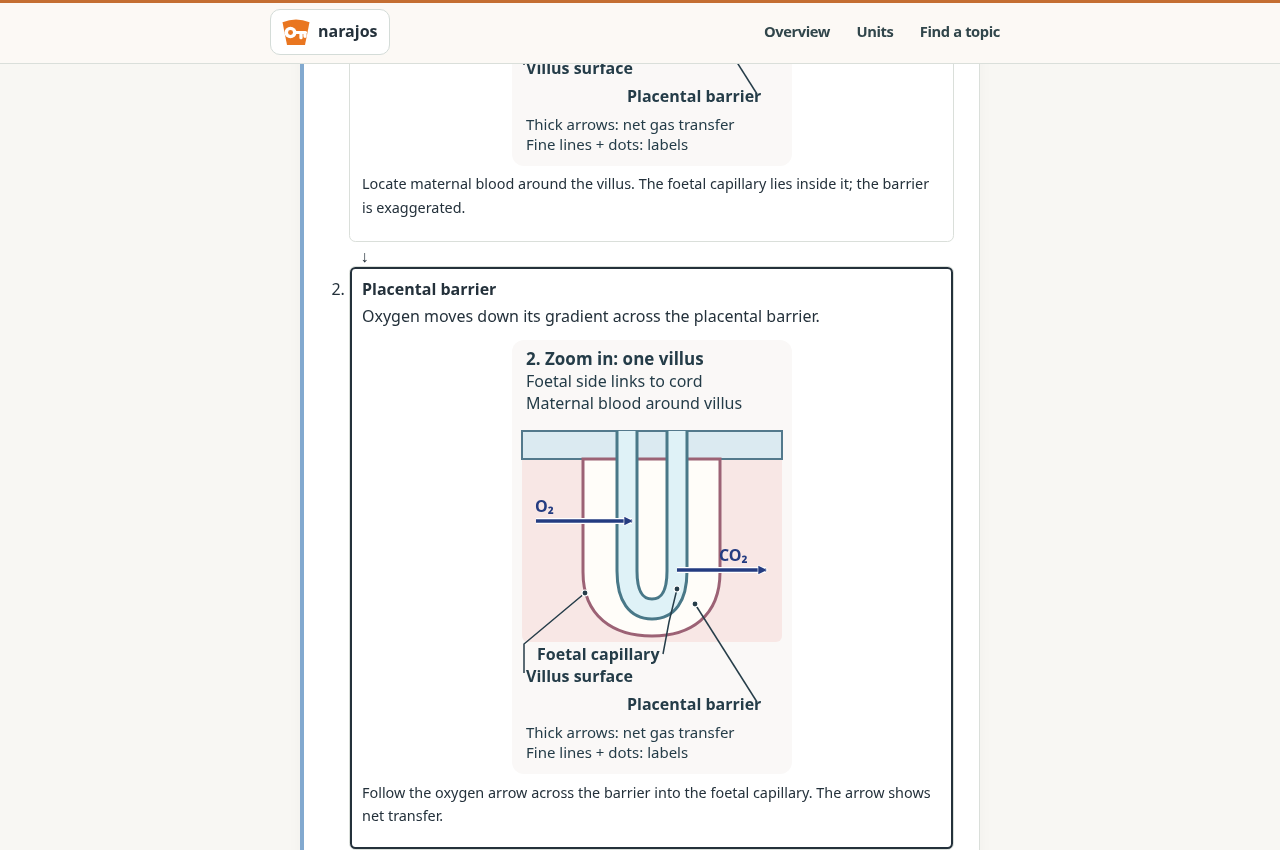
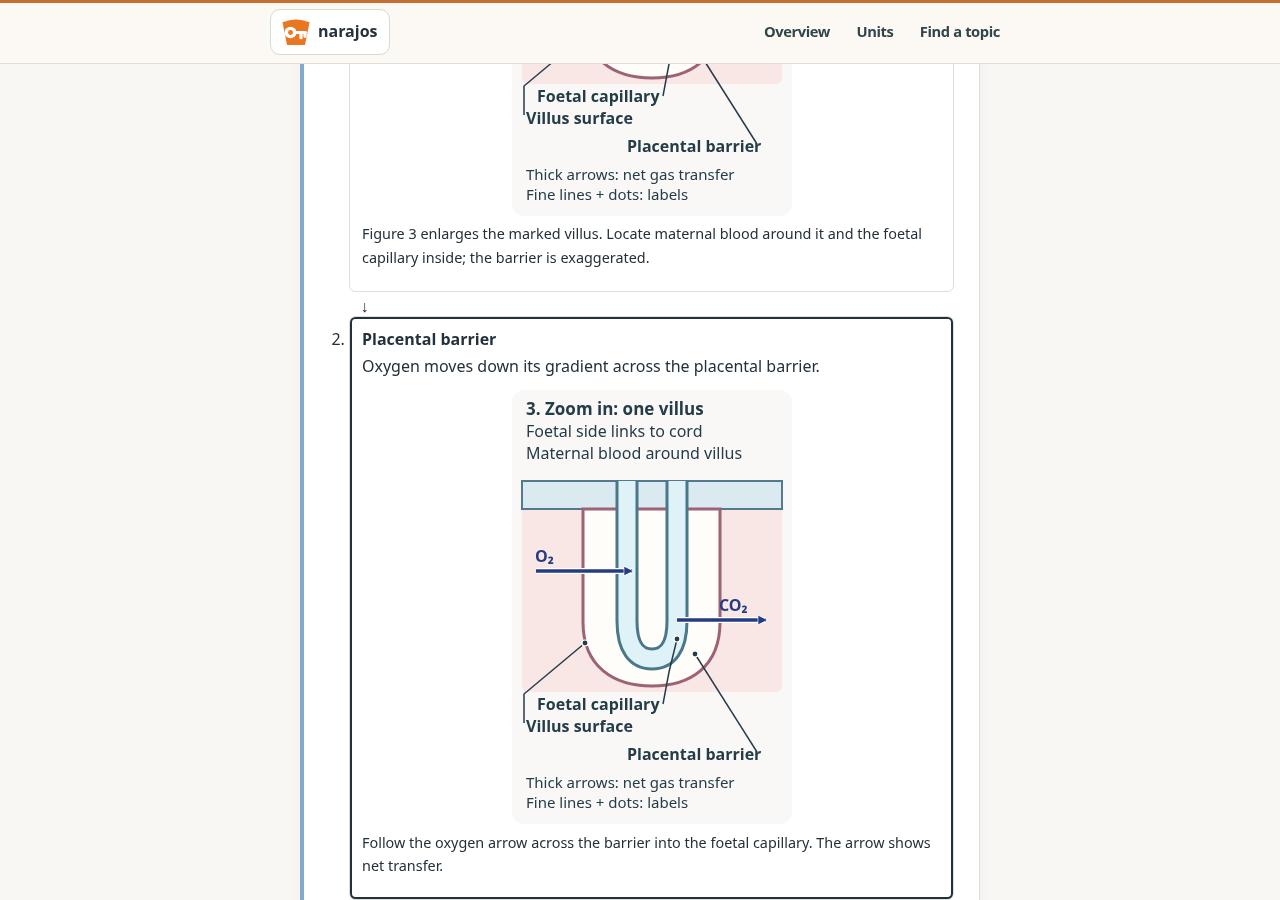
Scaffold placenta from pregnancy to villi

diff --git a/public/human-biology/teaching-knowledge.js b/public/human-biology/teaching-knowledge.js
@@ -246,15 +246,18 @@
       // https://openstax.org/books/anatomy-and-physiology-2e/pages/28-2-embryonic-development
       explain: ["The placenta is attached to the wall of the uterus. The foetus is connected to the placenta by the umbilical cord, which carries foetal blood between them.", "Chorionic villi contain foetal vessels and are bathed by maternal blood. The circulations remain largely separate. A large area and short diffusion distances help exchange."],
       // Original schematics, checked against OCR F175 and OpenStax Anatomy and
-      // Physiology 2e 28.2 (see docs/placenta-visual-followup.md). Figure 2
-      // is deliberately an enlargement, rather than an anatomically scaled view.
+      // Physiology 2e 28.2 (see docs/placenta-visual-followup.md). Figures 2
+      // and 3 are deliberately enlarged and are not anatomically scaled.
       explainDiagrams: {
         0: [{src:"/human-biology/f175-placenta-orientation.svg", width:280, height:390, compact:true, assessmentSensitive:true,
-          alt:"A simplified section through a pregnant person's body shows the placenta attached to the wall of the uterus. An umbilical cord connects the placenta to the foetus and carries foetal blood. Fine lines label the structures. The drawing is not to scale.",
-          caption:"Locate the placenta on the uterus wall, then follow the umbilical cord to the foetus. The placenta is enlarged and the drawing is not to scale."}],
-        1: [{src:"/human-biology/f175-placenta-villus.svg", width:280, height:434, compact:true, assessmentSensitive:true,
-          alt:"An enlarged section of the placenta in figure 1 shows a chorionic villus attached to tissue on the foetal side, with a foetal capillary inside and maternal blood around it. A thick arrow shows net oxygen transfer from maternal blood across the placental barrier into foetal blood. A second thick arrow shows carbon dioxide moving the other way. Fine lines ending in dots label structures. The barrier is exaggerated and the drawing is not to scale.",
-          caption:"Zoom in from the placenta in figure 1. Follow the thick arrows for net gas transfer; fine lines and dots label structures. The barrier includes tissue between the villus surface and the foetal capillary, and is exaggerated here. Many villi provide a large exchange area; this view shows one."}]
+          alt:"A simplified section through a pregnant female's body shows the placenta attached to the wall of the uterus. An umbilical cord connects the placenta to the foetus and carries foetal blood. A dashed box marks the placenta region enlarged in figure 2. Fine lines label the structures. The drawing is not to scale.",
+          caption:"Locate the placenta on the uterus wall, then follow the umbilical cord to the foetus. The dashed box marks the area enlarged in figure 2. The drawing is not to scale."}],
+        1: [{src:"/human-biology/f175-placenta-many-villi.svg", width:280, height:495, compact:true, assessmentSensitive:true,
+          alt:"A section of the placenta selected in figure 1 is turned so the foetal side, towards the cord, is at the top and the uterine wall below. Several branching chorionic villi extend from foetal-side tissue into maternal blood; only a few are shown. One villus anchors to the uterine wall and the others float in maternal blood. Blue loops represent the main foetal vessels inside the villi. A dashed box marks the middle villus enlarged in figure 3. Maternal and foetal blood normally remain separate; the schematic is not to scale.",
+          caption:"The selected section is turned so the foetal side is at the top. Many villi project into maternal blood; only a few are shown. Some anchor to the wall while others float, and foetal vessels are inside them. The dashed box marks the villus enlarged in figure 3."},
+          {src:"/human-biology/f175-placenta-villus.svg", width:280, height:434, compact:true, assessmentSensitive:true,
+          alt:"An enlargement of the marked villus in figure 2 shows a chorionic villus attached to tissue on the foetal side, with a foetal capillary inside and maternal blood around it. A thick arrow shows net oxygen transfer from maternal blood across the placental barrier into foetal blood. A second thick arrow shows carbon dioxide moving the other way. Fine lines ending in dots label structures. The barrier is exaggerated and the drawing is not to scale.",
+          caption:"Zoom in on the marked villus from figure 2. Follow the thick arrows for net gas transfer; fine lines and dots label structures. The barrier includes tissue between the villus surface and the foetal capillary, and is exaggerated here."}]
       },
       // Retained for a future, orientated redesign; not shown in Phase 1.
       deferredTeachingDiagram: {src:"/human-biology/placental-exchange.svg", width:280, height:310, compact:true,

diff --git a/public/human-biology/f174-f175-recap-figures.js b/public/human-biology/f174-f175-recap-figures.js
@@ -24,7 +24,8 @@
  const ivf={...window.KeystoneHumanLessons['f175/a4'].teachingDiagram,assessmentSensitive:true};
  const obstruction=figure('f175-blocked-gamete-routes',315,'Schematic opposing sperm and oocyte routes are interrupted by an obstructed oviduct. In this fictional example both tubes are blocked. Gametes may still be produced but their chance of meeting is reduced.','Follow both gamete routes to the obstruction. The example represents blocked tubes, one possible cause of reduced fertility.');
  const placentaOrientation=window.KeystoneHumanLessons['f175/a2'].explainDiagrams[0][0];
- const placentaVillus=window.KeystoneHumanLessons['f175/a2'].explainDiagrams[1][0];
+ const placentaMany=window.KeystoneHumanLessons['f175/a2'].explainDiagrams[1][0];
+ const placentaVillus=window.KeystoneHumanLessons['f175/a2'].explainDiagrams[1][1];
  function addExplain(key, visual) {
   const lesson=window.KeystoneHumanLessons?.[key]; if(!lesson)return;
   lesson.explainDiagrams={...lesson.explainDiagrams,0:[...(lesson.explainDiagrams?.[0]||[]),{...visual,assessmentSensitive:true}]};
@@ -48,7 +49,7 @@
   'f174/a4/0':[bmiCalculation,bmi], 'f174/a4/1':[bmi],
   'f175/2.1/0':window.KeystoneHumanLessons['f175/2.1'].explainDiagrams[0].map(item=>({...item,assessmentSensitive:true})),
   'f175/a1/0':[gametes], 'f175/a1/1':[journey], 'f175/a1/2':[hormones],
-  'f175/a2/0':[placentaOrientation,placentaVillus], 'f175/a2/1':[placentaOrientation,placentaVillus],
+  'f175/a2/0':[placentaOrientation,placentaMany,placentaVillus], 'f175/a2/1':[placentaOrientation,placentaMany,placentaVillus],
   'f175/a2/2':[figure('f175-ultrasound-echo',330,'A probe sends sound pulses into the body. Some sound reflects at a tissue boundary and returns as echoes. The scanner uses echoes to form an image.','Follow the sound pulse to the boundary and its echo back to the probe. The scanner uses returning echoes to create an image; the diagram is simplified.')],
   'f175/a3/0':[obstruction], 'f175/a3/1':[{...window.KeystoneHumanLessons['f175/a3'].teachingDiagram,assessmentSensitive:true},fertility,obstruction], 'f175/a4/0':[ivf], 'f175/a4/1':[bypass], 'f175/a4/2':[ivf]
  };

diff --git a/public/human-biology/f175-placenta-stage-figures.js b/public/human-biology/f175-placenta-stage-figures.js
@@ -2,12 +2,13 @@
 (function () {
  'use strict';
  const lesson=window.KeystoneHumanLessons?.['f175/a2'];
- if(!lesson?.explainDiagrams?.[0]?.[0] || !lesson?.explainDiagrams?.[1]?.[0])return;
- const orientation=lesson.explainDiagrams[0][0], villus=lesson.explainDiagrams[1][0];
+ if(!lesson?.explainDiagrams?.[0]?.[0] || !lesson?.explainDiagrams?.[1]?.[1])return;
+ const orientation=lesson.explainDiagrams[0][0], many=lesson.explainDiagrams[1][0], villus=lesson.explainDiagrams[1][1];
  lesson.modelDiagrams={...lesson.modelDiagrams,
   0:[
-   {...orientation,caption:'Locate the placenta and umbilical cord before following exchange in the enlarged view below.'},
-   {...villus,caption:'Locate maternal blood around the villus. The foetal capillary lies inside it; the barrier is exaggerated.'}
+   {...orientation,caption:'Locate the placenta and umbilical cord. The dashed box marks the area shown in figure 2.'},
+   {...many,caption:'Figure 2 turns the selected section so the foetal side is at the top. Maternal blood surrounds the villi; foetal vessels are inside. Only a few villi are shown. The dashed box marks the villus shown in figure 3.'},
+   {...villus,caption:'Figure 3 enlarges the marked villus. Locate maternal blood around it and the foetal capillary inside; the barrier is exaggerated.'}
   ],
   1:{...villus,caption:'Follow the oxygen arrow across the barrier into the foetal capillary. The arrow shows net transfer.'},
   2:{...villus,caption:'Compare the oxygen and carbon dioxide arrows. The gases move across the barrier in opposite directions.'}

diff --git a/docs/catchup-visual-coverage-human-steps.md b/docs/catchup-visual-coverage-human-steps.md
@@ -4,7 +4,7 @@ This is a working, **partial** review, not evidence that the Human Biology cours
 
 For F170 and F171, a step-0 recap mapping is not visible when that route opens a guided lesson, because those booklets omit the recap disclosure. The integrity check reports these entries separately from reachable recaps. Currently this applies to `f170/1.1.2.counting/0`; its chamber, sampling and dilution figures are checked beside the actual guided explanation. A registry entry alone is not evidence of rendered coverage.
 
-Worked-stage review was checked separately from first-entry teaching. At 320 and 1280 px, the earlier review covered 19 booklet reteaching targets and 122 non-booklet stage/viewport combinations. The earlier F175/a2 placental illustrations were withheld in Phase 1; Phase 2 replaces them with a pregnancy orientation and a linked enlarged villus. Independent practice must hide the worked panel and sensitive figures. Direct review arrival now aligns the focused step below the sticky header after layout settles, while pointer, touch, wheel or keyboard input cancels delayed alignment. For F175/a1, all six named simulation-help URLs show the corresponding reviewed static figure in the guide; changing the selector switches the figure without advancing the simulation or recording progress. The interactive model still starts at the beginning. Phone and desktop examples are in the [visual review record](catchup-visual-review/README.md).
+Worked-stage review was checked separately from first-entry teaching. At 320 and 1280 px, the earlier review covered 19 booklet reteaching targets and 122 non-booklet stage/viewport combinations. The earlier F175/a2 placental illustrations were withheld in Phase 1; Phase 2 replaces them with pregnancy orientation, a turned section showing several villi, and a linked enlarged villus. Independent practice must hide the worked panel and sensitive figures. Direct review arrival now aligns the focused step below the sticky header after layout settles, while pointer, touch, wheel or keyboard input cancels delayed alignment. For F175/a1, all six named simulation-help URLs show the corresponding reviewed static figure in the guide; changing the selector switches the figure without advancing the simulation or recording progress. The interactive model still starts at the beginning. Phone and desktop examples are in the [visual review record](catchup-visual-review/README.md).
 
 
 Course scope was compared with [OCR Human Biology specification, version 8](https://www.ocr.org.uk/Images/697578-specification-cambridge-advanced-national-in-human-biology.pdf): F170 §1.1.1 (specialised blood cells), F170 §1.2.2 (epithelial, muscle, connective and blood tissue; sliding-filament theory is excluded for that statement), F172 §4.1 (gene therapy), F173 §3.4 (chromatography and reference comparison), F175 §4.1 (IVF, ICSI and blocked oviducts), F176 §3.1 (nociception and the sensory/motor reflex route), and F177 §1.3 (receptor activation, agonists and antagonists). These comparisons confirm topics are in scope; they do not establish that each simplified drawing covers the whole specification, and the remaining accuracy checks below stay open.
@@ -112,7 +112,7 @@ The Lyme photograph is James Gathany / CDC, [PHIL 9875](https://phil.cdc.gov/Det
 | F172/a4 gene therapy | Explanation and model retain `gene-delivery.svg`; each of three model steps also uses `f172-gene-expression-comparison.svg`. | One fictional four-cell example shows incomplete delivery and expression, without claiming measured effectiveness. OCR and MedlinePlus/FDA sources are in the module. | Relates the low-protein starting state and incomplete target-cell delivery to the example outcome. | All worked stages inspected at 320/1280; sensitive figures hide during independent and after reload, and restore in teaching. | Somatic inheritance and other approaches such as editing or changing expression remain text-only. |
 | F174/a4 nutritional measurements | Explanation paragraphs 1–2 use `f174-bmi-composition.svg` and `f174-intake-biomarker.svg`; model step 1 uses BMI, steps 2–3 intake and biomarkers. | Equal height and mass imply equal BMI; fictional bar portions differ. Absorption, use and sampling conditions can affect comparisons; no real data are claimed. OCR and CDC sources are in the module. | Makes the limits of BMI and intake records visible alongside the corresponding facts. | Explanation and all stages checked at 320/1280; sensitive figures hide during independent/reload and restore in teaching. | Illustrative examples do not establish individual nutritional status or describe all biomarker factors. |
 | F174/a1 nutrients | Explanation and both model steps use `meals-energy-iron.svg`; model step 2 also uses `f174-iron-haemoglobin-oxygen.svg`. | Meals are fictional and iron supports haemoglobin production in developing red cells, which carry oxygen. No measured nutrient data or guaranteed clinical effect is implied; OCR and NHLBI sources are in the module. | Separates energy from an iron source and traces iron to haemoglobin and oxygen transport. | Both stages checked at 320/1280; sensitive copies hide during independent/reload and return in teaching. | Roles of other nutrients and other causes of iron deficiency remain unillustrated. |
-| F175/a2 placenta | Explanation paragraph 1: `f175-placenta-orientation.svg`; paragraph 2: `f175-placenta-villus.svg`. Model step 1 presents both in order; steps 2–3 each have their own adjacent villus view. Recaps 0–1 reuse both. | **Accuracy:** checked against [OpenStax anatomy and physiology 2e §28.2](https://openstax.org/books/anatomy-and-physiology-2e/pages/28-2-embryonic-development) for location, separate circulations and gas direction. The simplified drawings exaggerate the placental barrier and are not to scale. The [OCR F175 specification](https://www.ocr.org.uk/Images/697578-specification-cambridge-advanced-national-in-human-biology.pdf) covers foetal development and antenatal care; this exchange diagram supports the existing lesson rather than claiming this histological detail is a specific requirement. | **Teaching relevance:** the first view locates the placenta, uterus, foetus and cord; the enlarged villus shows maternal blood outside and a foetal capillary within. Thick gas arrows contrast with thin dotted leaders. | **Readability:** teaching figures visually checked at 320 and 1280 px; arrowheads and leader endpoints inspected separately. Assessment-sensitive copies are covered by the focused Human Biology regression. | The view shows one villus rather than how many villi increase area; that fact remains in the caption and teaching text. The earlier unorientated figures remain withheld. |
+| F175/a2 placenta | Explanation paragraph 1: `f175-placenta-orientation.svg`; paragraph 2: `f175-placenta-many-villi.svg` and `f175-placenta-villus.svg`. Model step 1 presents all three in order; steps 2–3 each have their own adjacent villus view. Recaps 0–1 reuse all three. | **Accuracy:** checked against [OpenStax anatomy and physiology 2e §28.2](https://openstax.org/books/anatomy-and-physiology-2e/pages/28-2-embryonic-development) for location, separate circulations and gas direction, and [NCBI Bookshelf on the placenta](https://www.ncbi.nlm.nih.gov/books/NBK53256/) for anchoring and floating villi. The simplified drawings exaggerate the placental barrier and are not to scale. The [OCR F175 specification](https://www.ocr.org.uk/Images/697578-specification-cambridge-advanced-national-in-human-biology.pdf) covers foetal development and antenatal care; this exchange diagram supports the existing lesson rather than claiming this histological detail is a specific requirement. | **Teaching relevance:** the first view locates the placenta, uterus, foetus and cord; the turned middle view shows multiple villi, and the enlarged villus shows maternal blood outside and a foetal capillary within. Thick gas arrows contrast with thin dotted leaders. | **Readability:** teaching figures visually checked at 320 and 1280 px; arrowheads and leader endpoints inspected separately. Assessment-sensitive copies are covered by the focused Human Biology regression. | The intermediate schematic shows a few villi and omits most branching; it does not quantify surface area. The earlier unorientated figures remain withheld. |
 | F175/a4 IVF/ICSI | Explanation and model: `ivf-icsi.svg` compares bringing sperm and oocyte together with injection, followed by conditional transfer and implantation. | Injection is shown as an IVF method; later transfer and implantation are conditional. Checked against lesson; external specification review pending. | Directly supports fertilisation method and uncertainty of later implantation; the model's bypass of oviduct transport is not pictured. | Redesigned to fit; checked at 320 and 1280 px without horizontal scrolling. | Reproductive anatomy would clarify the oviduct bypass. |
 | F176/a2 neurones | Explanation: `action-potential-ions.svg` compares sodium entry in depolarisation with potassium leaving during repolarisation. Model: existing synapse visual is provided through `visualFrom`; step 6 additionally shows `threshold-comparison.svg` alongside the comparison of potentials. | Arrow directions and stages match the lesson; channel timing is simplified. The worked graph plots −65 and −58 mV against a −55 mV threshold with a linear axis. Checked against lesson; external specification review pending. | Supports the ionic explanation. The graph supports the worked threshold comparison. The existing synapse model is visible at the opening worked step, but its stages are student-controlled rather than automatically synchronised with the worked steps. | New figures checked at 320 and 1280 px; labels and both ion stages and the graph are visible without scrolling. | Review whether students can connect the separately controlled synapse model to each of the first five worked steps; the graph compares potentials, not the cellular mechanism of reduced inhibition. |
 
@@ -146,7 +146,7 @@ Line numbers below are one-based; a route ending `/1` displays line 2. Figures a
 | F173/a3 · 2 | Chromatogram | Solvent moves up the paper and spots have different positions. | Shows a mobile solvent and stationary paper, but not the molecular partitioning mechanism. | The later partition figure explains both-way movement between phases; see [F172–F173 focused review](catchup-visual-coverage-human-f172-f173.md). |
 | F173/a3 · 3 | Benedict's controls | A known reducing sugar can yield an orange positive and the negative stays blue. | The later matched-heating example illustrates an unexpected negative and possible contamination, without claiming a proven cause. | 320/1280 route checked; see [F172–F173 focused review](catchup-visual-coverage-human-f172-f173.md). |
 | F174/a3 · 1 | Digestion pathway | Shows starch being digested to glucose before absorption. | Supports digestive hydrolysis but does not show catalytic action itself. | Guided recap panel needs rendered review. |
-| F175/a2 · 2 | Pregnancy orientation followed by enlarged villus. | The maternal and foetal blood spaces remain separated by the illustrated barrier; gas arrows show net movement in opposite directions. | The overview places the foetus and umbilical cord before the villus is enlarged. | Figures and endpoints checked at 320/1280; simplified and not to scale. |
+| F175/a2 · 2 | Pregnancy orientation, turned several-villi section and enlarged villus. | The maternal and foetal blood spaces remain separated by the illustrated barrier; gas arrows show net movement in opposite directions. | The overview places the foetus and umbilical cord before the villi and then one villus are enlarged. | Figures and endpoints checked at 320/1280; simplified and not to scale. |
 | F175/a3 · 2 | Obstructed oviduct | The lesson's example specifies both tubes; drawing shows one side. | Illustrates blocked transport, not the separately named ovulation and sperm-motility causes. | 320/1280 route checked; other causes remain unsupported. |
 | F176/a1 · 1; F176/a2 · 1 | Sensory/CNS/motor route | Arrows distinguish input to CNS from output to muscle. | Shows brain and spinal cord in the CNS and input/output directions. | Guided recap panels need rendered review. |
 | F176/a3 · 2 | Nociceptive pathway | The figure does not equate nociception to the experience of pain. | Shows brain processing and context. | 320/1280 route checked. |
@@ -316,8 +316,8 @@ The IDs below use the route and zero-based recap line number. Guided explanation
 | F175/2.1 explanation 1–2 and model 1–3 | History/ultrasound and one-point blood-pressure baseline; model uses history, baseline, then history/scan. | Distinguishes previous history, an initial measurement and current foetal evidence. | Previously checked at 320/1280; one starting value is not a trend. Other screening tests remain in text. |
 | F175/a1 explanation 1–2 | `f170-sperm-route.svg` and `f175-oocyte-route.svg` respectively. | Connects each gamete route to the matching paragraph. | 320/1280 checked; paths are simplified. |
 | F175/a1 model 1–4 | Stages use `f175-fsh-lh.svg`; `f175-fsh-lh.svg` plus `f175-oocyte-route.svg`; `f175-gamete-meeting.svg`; and `f175-fertilisation-development.svg`, respectively. The existing student-controlled reproductive pathway remains available. | The figures connect follicle growth, ovulation, gamete meeting and conditional implantation to their matching worked steps. | Independently checked at 320/1280 and hidden in independent/fresh checks. The simulation also has keyboard and touch coverage; outcomes are conditional and schematics are not to scale. |
-| F175/a2 explanation 1–2 | `f175-placenta-orientation.svg` follows the uterine attachment and umbilical-cord paragraph; `f175-placenta-villus.svg` follows the exchange paragraph. | The first locates the foetus, placenta and cord. The second shows maternal blood around a villus, the foetal capillary within it and the directions of net oxygen and carbon dioxide movement. | Both viewed at 320/1280. Barrier thickness and image sizes are exaggerated; the number of villi is explained in text rather than depicted. |
-| F175/a2 model 1–3 | Both figures appear in order at model step 1; the villus view repeats beside each of steps 2–3 with a caption matched to that step. | The overview supplies orientation on direct worked-example entry; the repeated villus view keeps the gas directions beside the current diffusion and circulation step on phones. | Arrowheads and leader targets checked at 320/1280. Worked-example advancement must not record progress; sensitive copies must be hidden during independent work. |
+| F175/a2 explanation 1–2 | `f175-placenta-orientation.svg` follows the uterine attachment and umbilical-cord paragraph; `f175-placenta-many-villi.svg` and `f175-placenta-villus.svg` follow the exchange paragraph. | The first locates the foetus, placenta and cord. The middle view shows several villi with foetal vessels inside and maternal blood around them; the final view shows a capillary and net gas directions. | All three viewed at 320/1280. The middle section is turned; barrier thickness and image sizes are exaggerated. |
+| F175/a2 model 1–3 | All three figures appear in order at model step 1; the villus view repeats beside each of steps 2–3 with a caption matched to that step. | The overview supplies orientation on direct worked-example entry; the repeated villus view keeps the gas directions beside the current diffusion and circulation step on phones. | Arrowheads and leader targets checked at 320/1280. Worked-example advancement must not record progress; sensitive copies must be hidden during independent work. |
 | F175/a3 explanation 1 | `f175-fertility-factors.svg` plus obstructed oviduct. | Compares absent ovulation, reduced sperm movement and obstruction as different possible steps. | 320/1280 checked; examples do not diagnose an individual. |
 | F175/a3 model 1–2 | `f175-blocked-gamete-routes.svg` with the original obstruction view. | Shows why an obstructed route can reduce gamete meeting although production may continue. | Both steps previously checked at 320/1280; the illustrated case specifies both tubes blocked. |
 | F175/a4 explanation 1 | `ivf-icsi.svg` compares oocyte insemination with sperm injection. | Distinguishes fertilisation methods outside the body. | 320/1280 checked; neither method guarantees an embryo. |
@@ -339,7 +339,7 @@ The IDs below use the route and zero-based recap line number. Guided explanation
 | F175/a1/0 | `f175-oocyte-route.svg` | Locates the oviduct in the oocyte route. | 320/1280 checked; fertilisation usually occurs in the oviduct, not necessarily in every case. |
 | F175/a1/1 | `f175-fertilisation-development.svg` | Conditional fertilisation, cleavage during transport and possible implantation are sequenced. | 320/1280 checked; model not to scale. |
 | F175/a1/2 | `f175-fsh-lh.svg` | FSH supports follicle growth; LH surge normally triggers ovulation. | 320/1280 checked; hormonal regulation is simplified. |
-| F175/a2/0–1 | Pregnancy orientation followed by the enlarged villus. | Locates the foetus and cord before showing separate maternal and foetal blood spaces and gas directions. | 320/1280 teaching render checked; the view shows one villus, so surface-area effects remain explained in text. |
+| F175/a2/0–1 | Pregnancy orientation, several-villi section and enlarged villus. | Locates the foetus and cord before showing several villi, separate maternal and foetal blood spaces, and gas directions. | 320/1280 teaching render checked; the intermediate view shows a few simplified villi rather than their full branching. |
 | F175/a2/2 | `f175-ultrasound-echo.svg` | Sound pulses and reflected echoes lead to image formation. | 320/1280 checked; simplified boundary. |
 | F175/a3/0–1 | `f175-blocked-gamete-routes.svg`; line 1 also `f175-fertility-factors.svg` | Contrasts blocked transport with absent ovulation and reduced sperm motility. | 320/1280 checked; not a diagnosis or exhaustive list. |
 | F175/a3/2 | No separate figure | Isolated caution that a test result does not always prove one cause. | No separate visual needed. |

diff --git a/docs/catchup-visual-coverage.md b/docs/catchup-visual-coverage.md
@@ -9,7 +9,7 @@ The [Phase 2 educational-quality audit](catchup-visual-quality-phase2.md) record
 | KS3 Years 7–9 | [KS3 block ledger](catchup-visual-coverage-ks3-steps.md) | 37 routes and 17 worked stages reviewed, including desktop label checks. An uncertain Elodea annotation was removed; the credited unmarked photograph and labelled teaching diagram remain. A clearer specimen image could be considered in a later refinement. |
 | GCSE Combined Science | [GCSE block ledger](catchup-visual-coverage-gcse-steps.md) | 48 routes: 48 openings, 87 teaching steps, 73 worked lines and 17 Higher entries reviewed. See the ledger for the scope and limitations of each figure. |
 | A-level Biology | [A-level block ledger](catchup-visual-coverage-alevel-steps.md) | 413 recap groups reviewed: 367 mapped to figures, 36 instruction-only and 10 isolated short statements. Guided catch-up stages are recorded separately; some figures illustrate only the relationships identified in the ledger. |
-| AAQ Human Biology | [Human Biology block ledger](catchup-visual-coverage-human-steps.md) | 201 reachable recap lines: 188 explicitly mapped, 1 supported by an existing inline graft visual, and 12 short statements classified separately. F175/a2 now uses an orientation view and an enlarged villus; the earlier unorientated figures remain withheld. Guided-stage checks and other partial representations are recorded in the ledger. |
+| AAQ Human Biology | [Human Biology block ledger](catchup-visual-coverage-human-steps.md) | 201 reachable recap lines: 188 explicitly mapped, 1 supported by an existing inline graft visual, and 12 short statements classified separately. F175/a2 now uses pregnancy orientation, a section showing several villi and an enlarged villus; the earlier unorientated figures remain withheld. Guided-stage checks and other partial representations are recorded in the ledger. |
 
 The concept inventories below list routes and their original opening-visual categories; they are not a live assessment of each step. The block ledgers are the current review records. All checked claims in a ledger have the scope stated there; a visual may cover only a part of its explanation.
 
@@ -120,7 +120,7 @@ The catch-up index has 171 concepts across topics 1–8 (17, 20, 23, 23, 22, 28,
 
 ## AAQ Human Biology
 
-The companion index contains 90 routes: 37 F170, 29 F171, and 4, 3, 4, 5, 5 and 3 across F172–F177. These include sections, notes and focused lessons. The recap inventory has 254 lines; 53 first-step F170/F171 lines open guided lessons rather than a recap, leaving 201 reachable recap lines. Of these, 188 have explicit figure mappings; one has the existing inline kidney-graft visual; and 12 short orientation or interpretation statements are [classified separately](catchup-visual-coverage-human-unmapped-review.md). The current guided inventory has 75 lessons: 141 of 146 explanation paragraphs and 204 of 209 worked steps have explicit per-step figure or photo fields. These mechanical counts exclude existing inline figures, highlighted tables and other interactions. F175/a2 presents an orientation view and enlarged villus with its explanation and at the start of its worked sequence; an enlarged villus view is also adjacent to each later worked step. These are placement counts, not a claim that every mapped figure fully explains its block. See the [route inventory](catchup-visual-coverage-human.md), [guided block index](catchup-visual-coverage-human-block-index.md), [reviewed teaching blocks](catchup-visual-coverage-human-steps.md) and [recap inventory](catchup-visual-coverage-human-recaps.md) for exact checks and remaining partial support.
+The companion index contains 90 routes: 37 F170, 29 F171, and 4, 3, 4, 5, 5 and 3 across F172–F177. These include sections, notes and focused lessons. The recap inventory has 254 lines; 53 first-step F170/F171 lines open guided lessons rather than a recap, leaving 201 reachable recap lines. Of these, 188 have explicit figure mappings; one has the existing inline kidney-graft visual; and 12 short orientation or interpretation statements are [classified separately](catchup-visual-coverage-human-unmapped-review.md). The current guided inventory has 75 lessons: 141 of 146 explanation paragraphs and 204 of 209 worked steps have explicit per-step figure or photo fields. These mechanical counts exclude existing inline figures, highlighted tables and other interactions. F175/a2 presents pregnancy orientation, a several-villi section and an enlarged villus with its explanation and at the start of its worked sequence; an enlarged villus view is also adjacent to each later worked step. These are placement counts, not a claim that every mapped figure fully explains its block. See the [route inventory](catchup-visual-coverage-human.md), [guided block index](catchup-visual-coverage-human-block-index.md), [reviewed teaching blocks](catchup-visual-coverage-human-steps.md) and [recap inventory](catchup-visual-coverage-human-recaps.md) for exact checks and remaining partial support.
 
 ## Verification still needed
 

diff --git a/docs/catchup-visual-quality-phase2.md b/docs/catchup-visual-quality-phase2.md
@@ -13,7 +13,7 @@ This is a targeted adversarial review of selected teaching routes, not a full sc
 | A-level co-transport, chemiosmosis and oxidative phosphorylation | High: the sodium gradient was implicit and overlapping electron/proton arrows obscured causal direction. | The ileum comparison labels the sodium gradient; electron transfer and proton pumping are separated, with particles shown on both sides of the membrane. | Captions explain energy coupling and omitted detail; reviewed with the adjacent A-level explanation, at 320 and 1280 px. |
 | A-level synapse and conduction | High: a continuous similarly coloured arrow could suggest acetylcholine itself entered the cell as sodium; node leaders missed the exposed axon. | ACh has a distinct diamond shape and binds outside the receptor channel; a separate arrow shows sodium entry. Node leaders meet exposed axon, and the text distinguishes local current from action-potential regeneration. | [Synapse before](catchup-visual-phase2/alevel-synapse-before-phone.png) · [after](catchup-visual-phase2/alevel-synapse-after-phone.png). The conduction curves show direction, not a path outside the axon. |
 | AAQ F171 antigen recognition and F176 synapse | High: helper T-cell recognition and receptor contact were not shown, and a transmitter needed a clear label. | Separate simplified interfaces show peptide–MHC recognition and direct B-cell binding; the synapse labels a transmitter and receptor contact. | Leaders end at the structures they name; arrows and label lines are visually distinct. [Immunity before](catchup-visual-phase2/human-immunity-before-phone.png) · [after](catchup-visual-phase2/human-immunity-after-phone.png). |
-| AAQ F175 placental exchange | High: the Phase 1 villus was withheld because it lacked anatomical orientation and resembled a cell. | Two linked schematics first locate the uterus, placenta, foetus and cord, then enlarge one villus to distinguish maternal blood, the barrier and foetal capillary. Thick arrows show net gas transfer; fine lines and dots identify structures. | Barrier and sizes are exaggerated; maternal and foetal blood normally remain separate. [Phone](catchup-visual-phase2/human-placenta-phone.png) · [Desktop](catchup-visual-phase2/human-placenta-desktop.png) · [Worked step, phone](catchup-visual-phase2/human-placenta-worked-phone.png) · [worked step, desktop](catchup-visual-phase2/human-placenta-worked-desktop.png). This is supplementary scaffolding for the existing lesson; OCR F175 does not explicitly require this exchange histology. |
+| AAQ F175 placental exchange | High: the Phase 1 villus was withheld because it lacked anatomical orientation and resembled a cell. | Three linked schematics locate the uterus, placenta, foetus and cord, then show several villi before enlarging one to distinguish maternal blood, the barrier and foetal capillary. Dashed selections link the views; the middle section is turned to place the foetal side at the top. Thick arrows show net gas transfer; fine lines and dots identify structures. | Barrier and sizes are exaggerated; maternal and foetal blood normally remain separate. [Phone](catchup-visual-phase2/human-placenta-phone.png) · [Desktop](catchup-visual-phase2/human-placenta-desktop.png) · [Worked step, phone](catchup-visual-phase2/human-placenta-worked-phone.png) · [worked step, desktop](catchup-visual-phase2/human-placenta-worked-desktop.png). This is supplementary scaffolding for the existing lesson; OCR F175 does not explicitly require this exchange histology. |
 
 The changed figures use editable original vectors. A photograph or micrograph is valuable when recognising a real specimen is the learning goal; these specific fixes concern relationships, movement and orientation that benefit from simplified explanatory diagrams. This review did not systematically source new micrographs or re-review every existing photograph. Existing questions already ask learners to identify the active-transport direction and antibody target, so the review did not add repetitive checks. Existing question and progress workflows are retained; opening a teaching figure is not evidence of mastery.
 

diff --git a/docs/placenta-visual-followup.md b/docs/placenta-visual-followup.md
@@ -1,8 +1,8 @@
 # Placenta visual: follow-up design
 
-The F175/a2 teaching text and worked steps remain available in Phase 1, but the single-villus exchange figure and the separate many-villi schematic are withheld from the live explanation, worked stages and recaps. Their editable SVG files and accompanying source modules are retained. Phase 2 replaces them with an original pregnancy-orientation view and a linked enlarged-villus view; the earlier files remain withheld. The review criteria below document the basis for that replacement.
+The F175/a2 teaching text and worked steps remain available in Phase 1, but the single-villus exchange figure and the separate many-villi schematic are withheld from the live explanation, worked stages and recaps. Their editable SVG files and accompanying source modules are retained. Phase 2 replaces them with an original pregnancy-orientation view, a turned placental section showing many villi, and a linked enlarged-villus view; the earlier files remain withheld. The review criteria below document the basis for that replacement.
 
-The replacement should begin with an orientation view showing the pregnant person, uterus, placenta, umbilical cord and foetus. Clearly distinguish the maternal and foetal sides before zooming in to a villus and its foetal capillaries. Keep each zoom connected to the preceding view, and explain that sizes and distances are simplified rather than implying a real scale.
+The replacement should begin with an orientation view showing the pregnant female, uterus, placenta, umbilical cord and foetus. Clearly distinguish the maternal and foetal sides before zooming in through the many-villi section to one villus and its foetal capillaries. Keep each zoom connected to the preceding view, and explain that sizes and distances are simplified rather than implying a real scale.
 
 Use a consistent legend to distinguish label leaders from arrows showing net gas transfer. Label oxygen and carbon dioxide, show their directions across the placental barrier, and explain the arrow convention and any visual exaggeration. Do not suggest that maternal and foetal blood normally mix or that the umbilical cord carries maternal blood. Keep British spellings, including “foetus” and “foetal”, in visible labels, captions and alternatives.
 

diff --git a/docs/catchup-visual-coverage-human-block-index.md b/docs/catchup-visual-coverage-human-block-index.md
@@ -323,8 +323,8 @@ The [remaining recap review](catchup-visual-coverage-human-unmapped-review.md) d
 | f175/a1 · Model 3 | Compare the two routes. Both can reach the ampulla of an oviduct. If the gametes are in different oviducts,… | None declared | Unreviewed; see reviewed exceptions |
 | f175/a1 · Model 4 | Follow the embryo only on the fertilisation branch. Cleavage starts during transport. The blastocyst may im… | None declared | Unreviewed; see reviewed exceptions |
 | f175/a2 · Explain 1 | The placenta is attached to the wall of the uterus. The foetus is connected to the placenta by the umbilical cord, which carries foetal blood between them. | Orientation figure | See F175/a2 block review |
-| f175/a2 · Explain 2 | Chorionic villi contain foetal vessels and are bathed by maternal blood. The circulations remain largely sep… | Enlarged villus figure | See F175/a2 block review |
-| f175/a2 · Model 1 | Oxygen reaches the spaces around the villi in maternal blood. | Orientation and enlarged villus | See F175/a2 block review |
+| f175/a2 · Explain 2 | Chorionic villi contain foetal vessels and are bathed by maternal blood. The circulations remain largely sep… | Several-villi section and enlarged villus | See F175/a2 block review |
+| f175/a2 · Model 1 | Oxygen reaches the spaces around the villi in maternal blood. | Orientation, several-villi section and enlarged villus | See F175/a2 block review |
 | f175/a2 · Model 2 | Oxygen moves down its gradient across the placental barrier. | Enlarged villus figure adjacent to this step | See F175/a2 block review |
 | f175/a2 · Model 3 | Foetal capillaries take up oxygen and foetal blood carries it away. Carbon dioxide moves in the opposite dire… | Enlarged villus figure adjacent to this step | See F175/a2 block review |
 | f175/a3 · Explain 1 | Fertility can be affected by gamete production, ovulation, transport or conditions affecting fertilisation … | teachingDiagram | Unreviewed; see reviewed exceptions |

diff --git a/docs/catchup-visual-coverage-human-unmapped-review.md b/docs/catchup-visual-coverage-human-unmapped-review.md
@@ -4,7 +4,7 @@ This review classifies the reachable recap lines that had no entry in the figure
 
 | Route | Classification and evidence |
 | --- | --- |
-| F175/a2 · 1–2 | The previous schematics were withheld in Phase 1. Phase 2 adds a pregnancy-orientation view and a linked villus exchange view to both recap lines. The one-villus schematic does not itself show the contribution of many villi to surface area; that remains explained in text. See the [block review](catchup-visual-coverage-human-steps.md). |
+| F175/a2 · 1–2 | The previous schematics were withheld in Phase 1. Phase 2 adds pregnancy orientation, a turned section showing several villi, and a linked enlarged villus exchange view to both recap lines. The schematic omits most branching and does not quantify surface area. See the [block review](catchup-visual-coverage-human-steps.md). |
 | F170/2.1.4.graft · 1 | The focused recap has a separate inline `kidney-graft` visual supplied by `KeystoneCatchupVisuals` at step 0. It is not in the recap registry, so the registry count excludes it. |
 | F171/1.2.1 · 2 | One short reasoning reminder: symptoms can have multiple causes and measured function should be compared with affected tissue. No separate figure is mapped to this sentence. |
 | F171/4.1 · 2 | One short interpretation reminder about measurement conditions and clinical conclusions. No separate figure is mapped to this sentence. |
